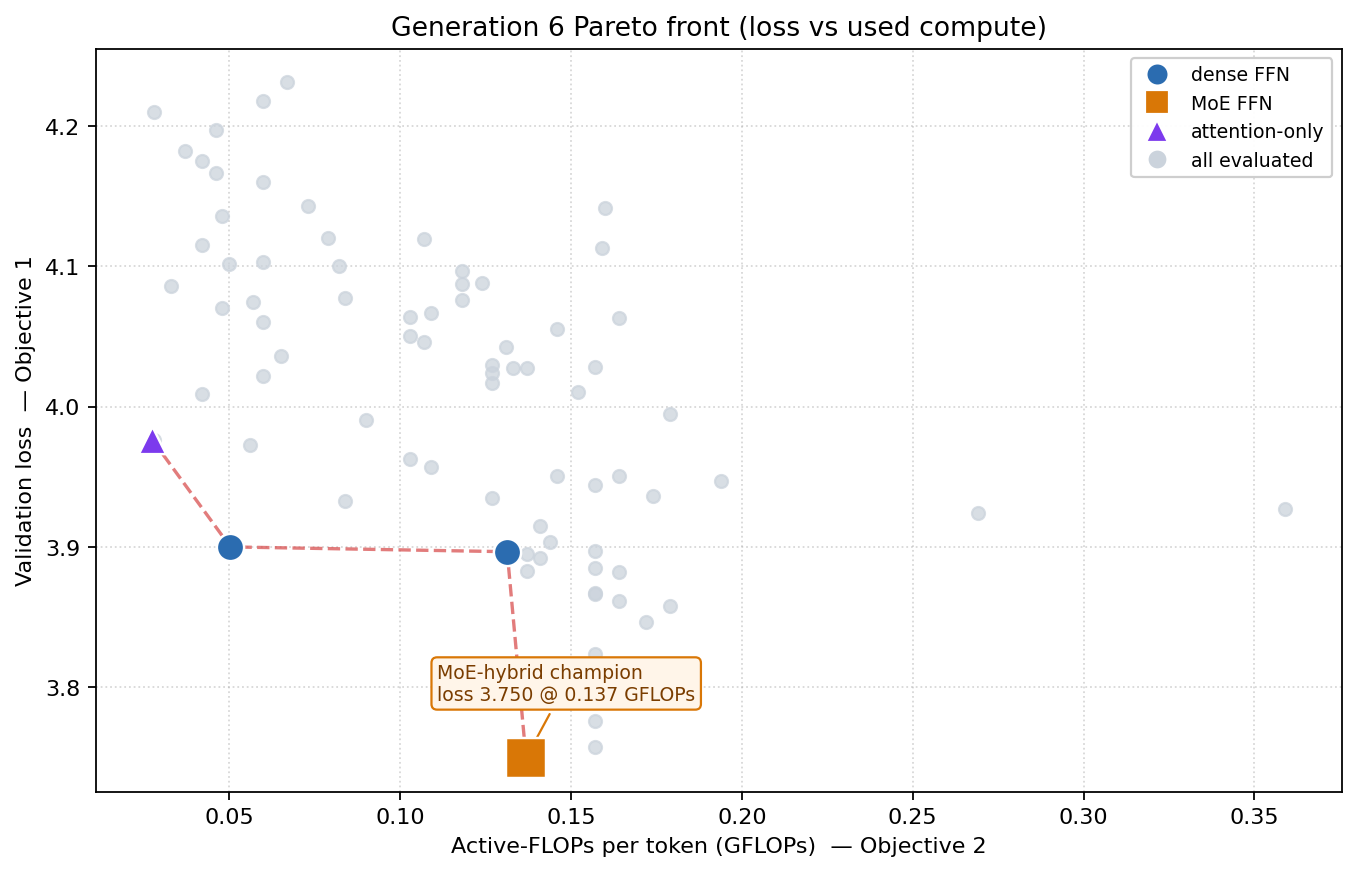
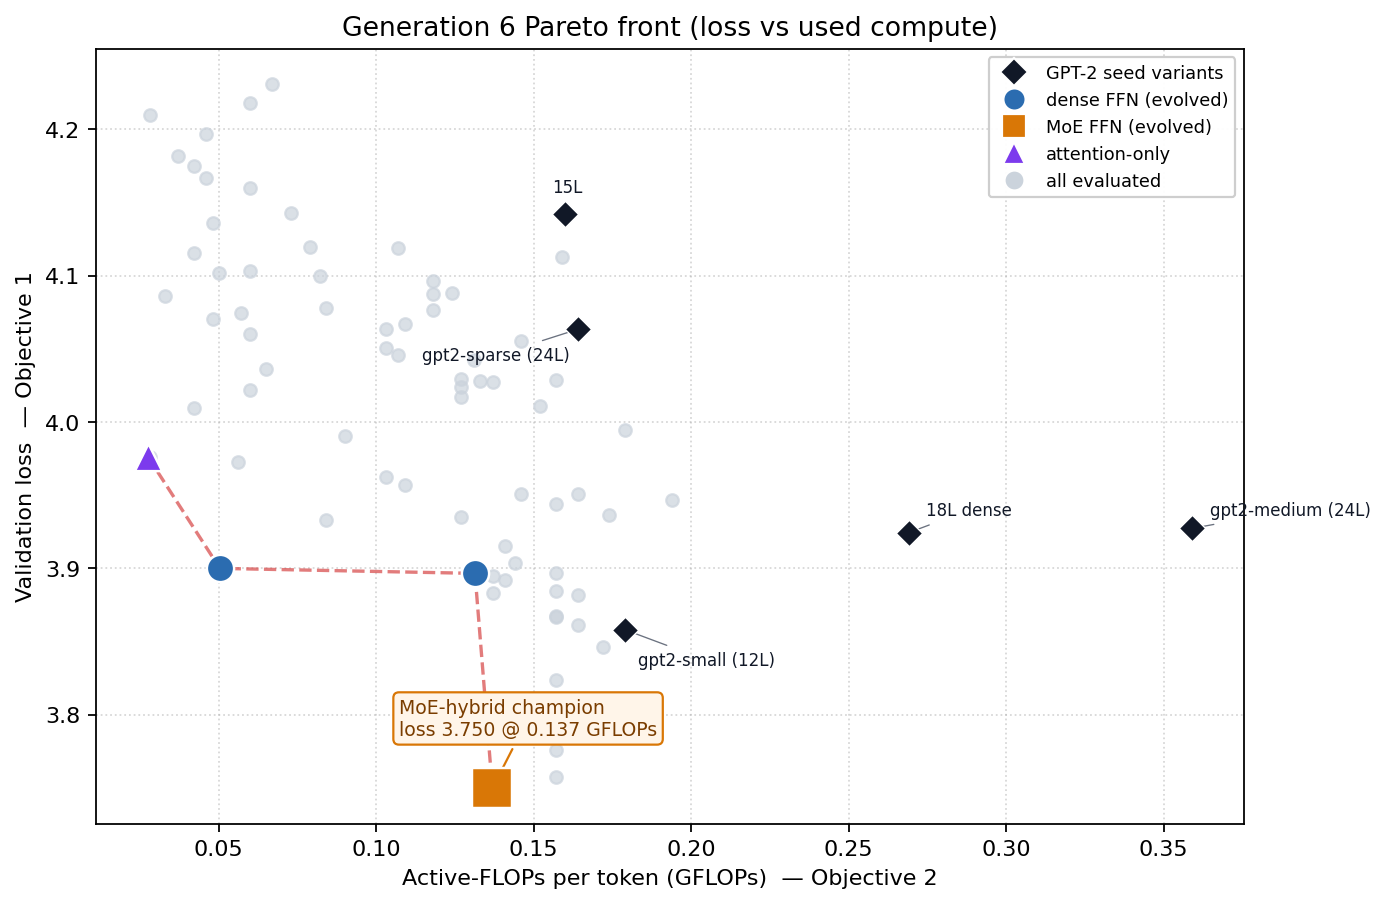
docs(blog): annotate Gen-1 GPT-2 seed variants in the Pareto figure

diff --git a/blog-rediscover.md b/blog-rediscover.md
@@ -33,7 +33,7 @@ Starting from five GPT-2 seeds and fifteen diverse explorers, the front advanced
 
 ![Generation 6 Pareto front](assets/blog-rediscover/gen6_pareto.png)
 
-**Fig 1;** The generation-6 Pareto front in the (used compute, loss) plane. Grey are all evaluated feasible candidates across six generations; the dashed red curve is the non-dominated front. At the cheap-compute extreme sits an attention-only model (purple); the interior is held by dense models (blue); and the loss-leading corner — lower loss *and* fewer FLOPs than any dense competitor — is taken by a **Mixture-of-Experts hybrid** (orange).
+**Fig 1;** The generation-6 Pareto front in the (used compute, loss) plane. Grey are all evaluated feasible candidates across six generations; the dashed red curve is the non-dominated front. The black diamonds are the **GPT-2 seed variants** the search started from — every one of them sits up and to the right of the evolved front, dominated on both objectives; the best seed (gpt2-small, loss 3.858) is beaten by the evolved champion at lower loss *and* less compute, while the larger seeds fall far out on the compute axis. At the cheap-compute extreme sits an attention-only model (purple); the interior is held by dense models (blue); and the loss-leading corner is taken by a **Mixture-of-Experts hybrid** (orange).
 
 The champion is worth reading node by node.
 
